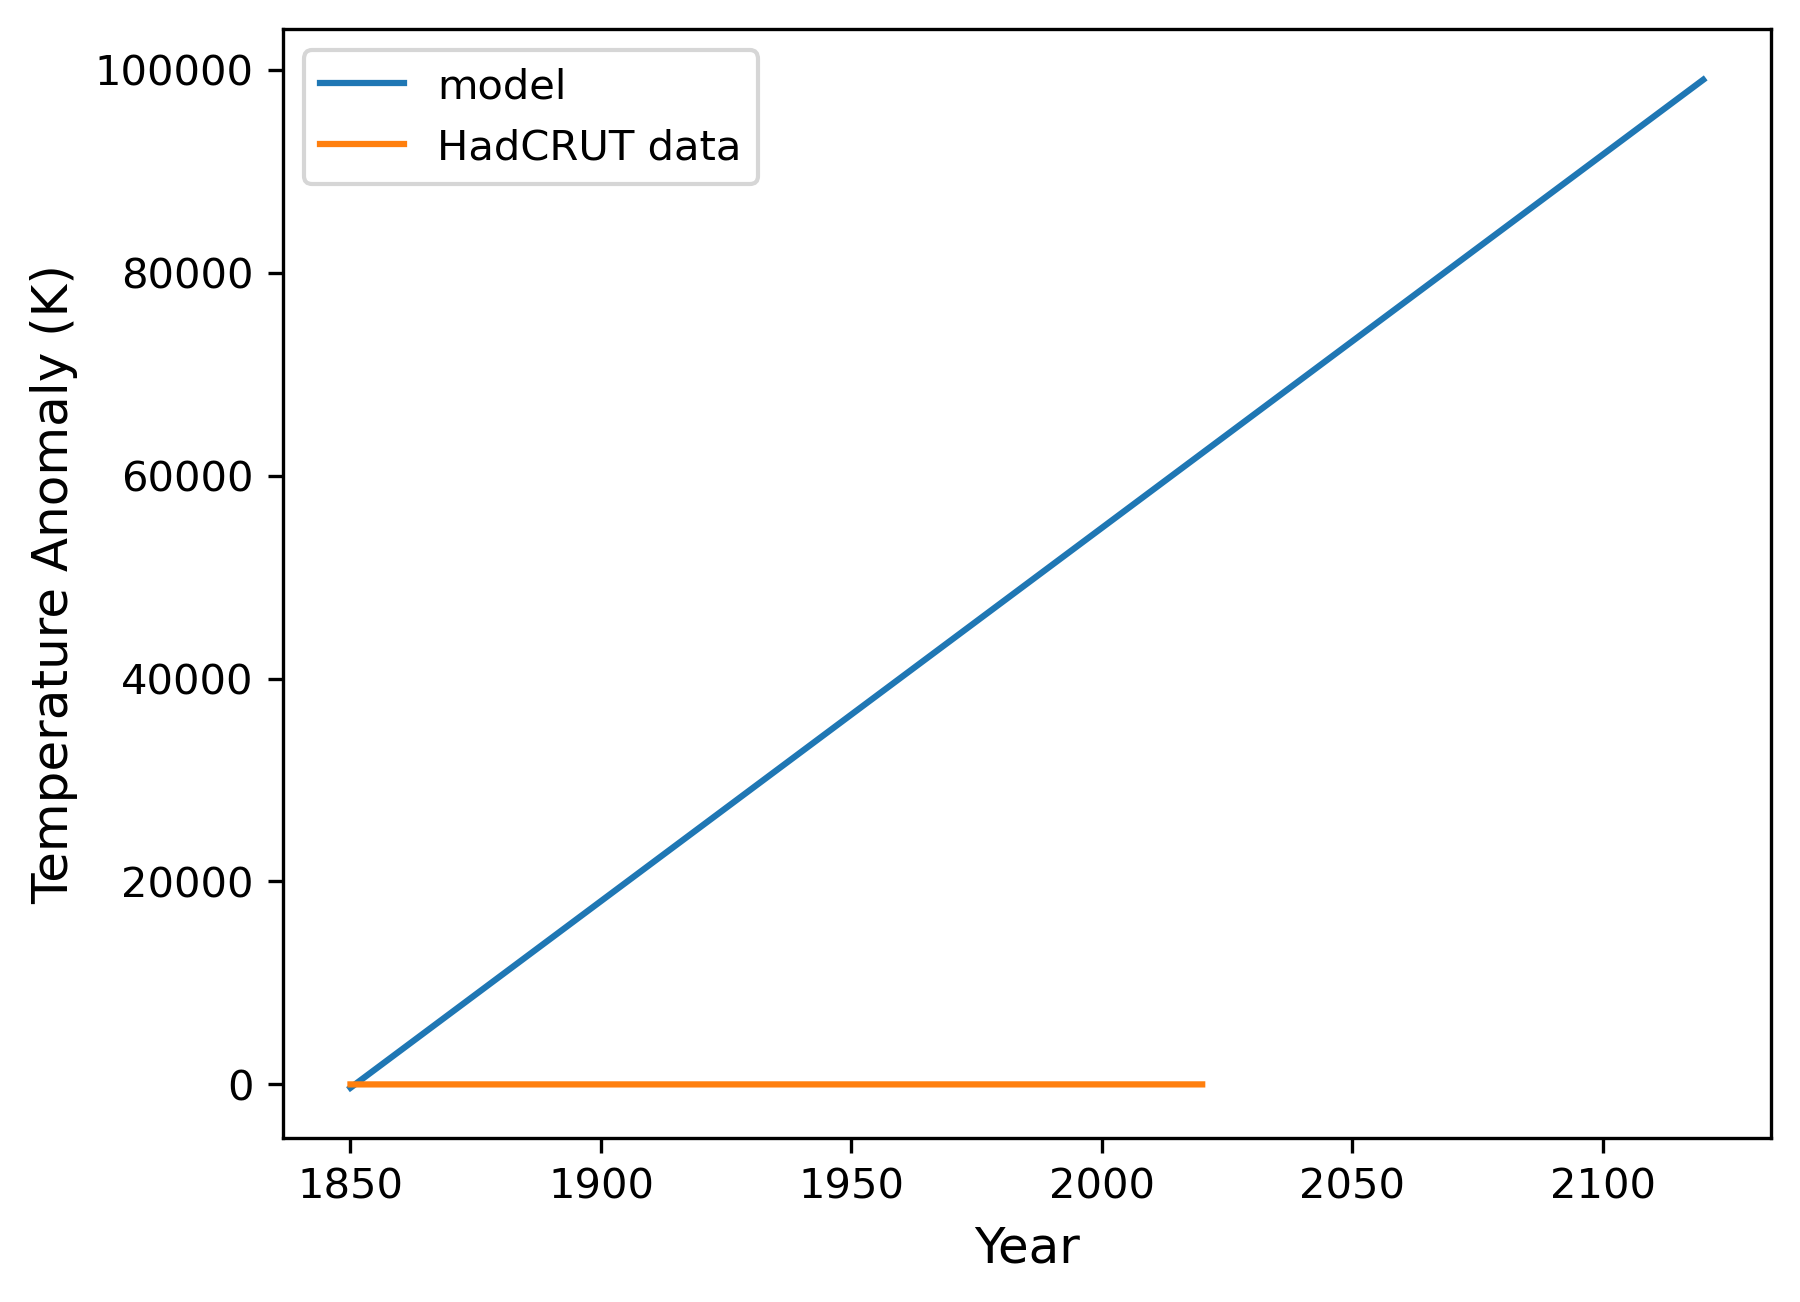
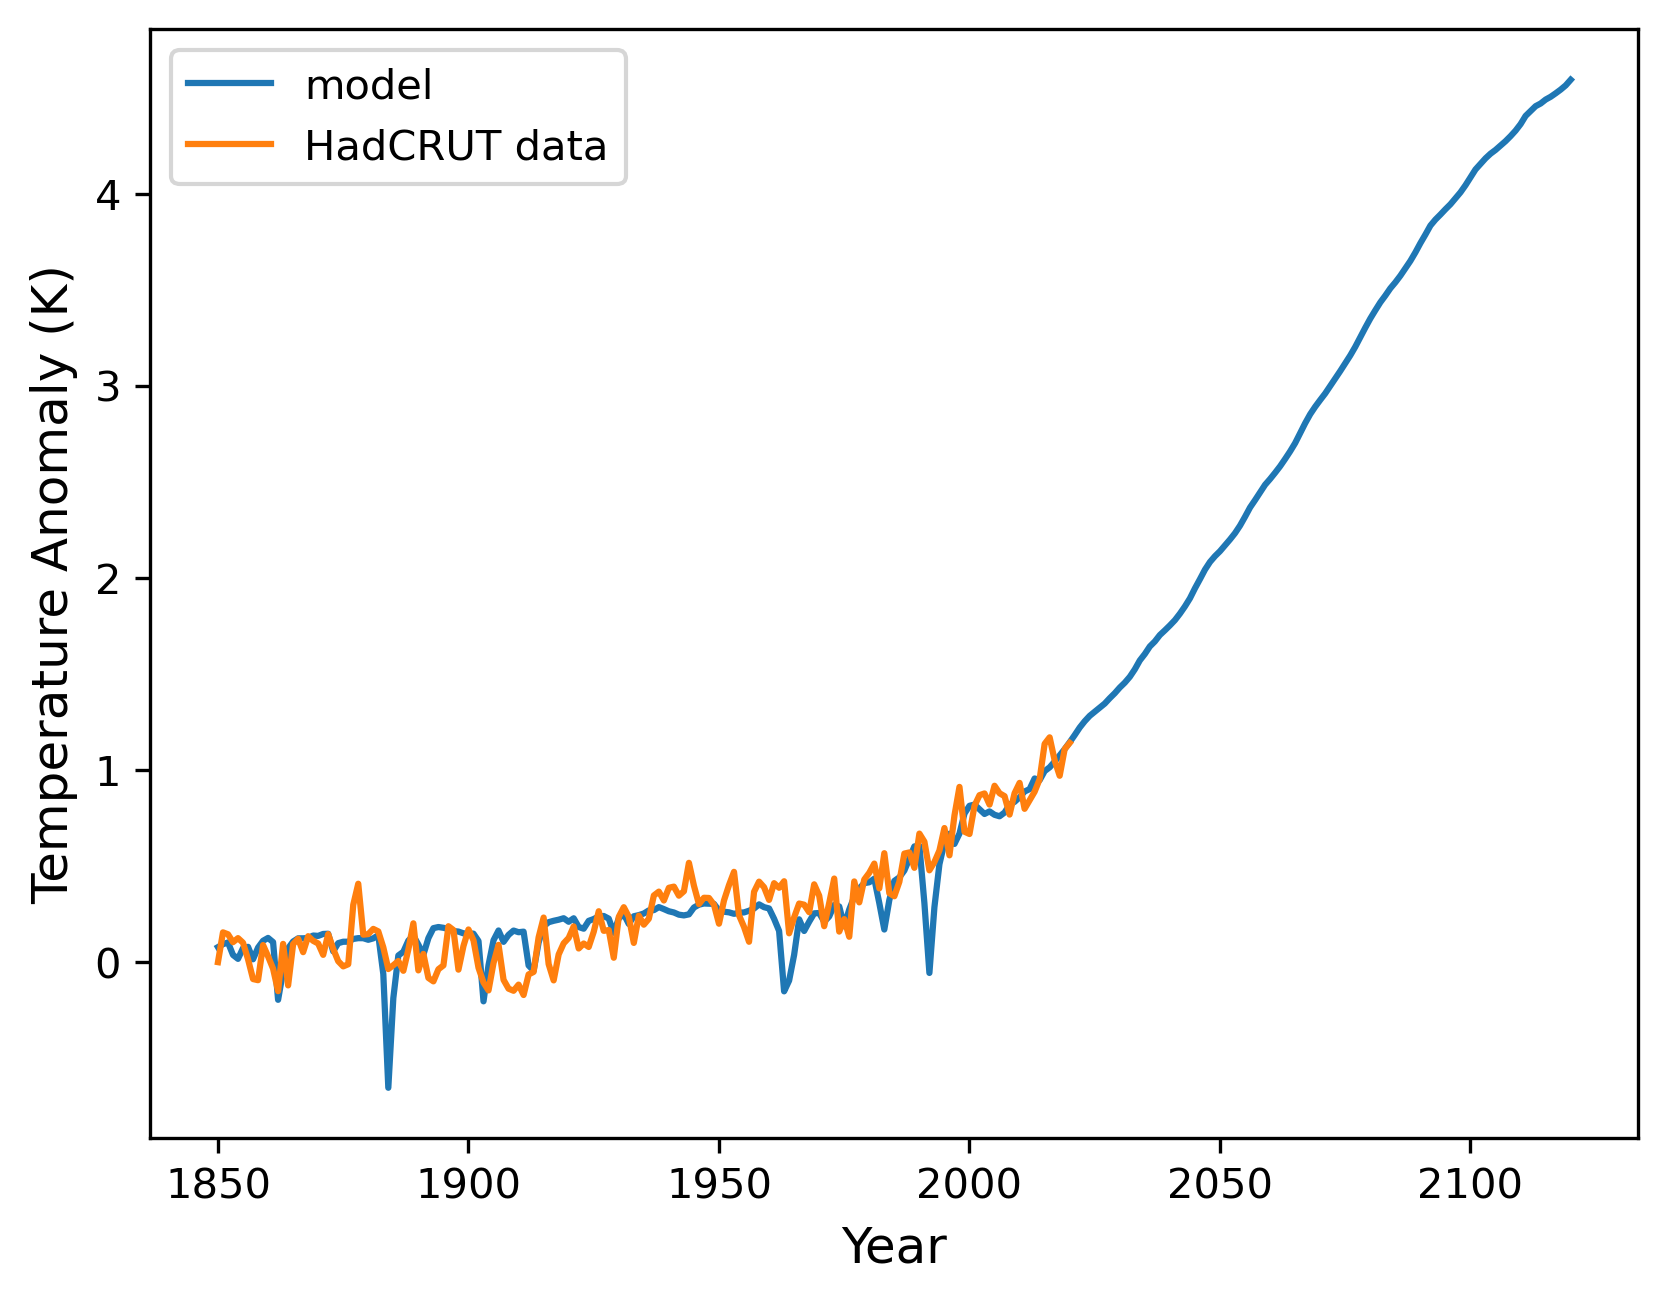
add erf

diff --git a/scripts/experiments.py b/scripts/experiments.py
@@ -28,7 +28,7 @@ def fit_model(data, model_used, t):
     # in order to find parameters for function that give the best fit using least squares approach
     
     mod = lmfit.Model(model_used)
-    params = mod.make_params(A=-1, B=-1, F=2, alpha=1) ## parameters needed for best guess
+    params = mod.make_params(A=-1, B=-1, alpha=1) ## parameters needed for best guess
     fitted_model = mod.fit(data, params, t=t, method='least_squares')
 
     return fitted_model, params 
@@ -55,34 +55,36 @@ def main():
     t_fut = np.array(range(0,271), dtype='int64')
     years_fut = t_fut + 1850
 
+    ERF_data = pd.read_csv(os.path.join(data_dir, 'ERF_ssp585_1750-2500.csv'))
+    ERF_data = ERF_data.set_index('year')
+    ERF = ERF_data.loc[1850:2020]['total']
+
     data_used = load_data(data_path)
     temp_anom = calc_anomaly(data_used, num_years=171)
     
     fitted_model, params = fit_model(temp_anom, surface_ocean_temp, t=t)
 
     ## SET CONSTRAINTS
-    # need to constrain the parameters as A + B = -F/alpha
-    params['F'].expr = '-alpha*(A+B)'
+    # # need to constrain the parameters as A + B = -F/alpha
+    # params['F'].expr = '-alpha*(A+B)'
     # Radiative forcing must be positive
-    params['F'].min = 0
+    # params['F'].min = 0
     # Alpha is 1.04+-0.36 from CMIP6 (in slides)
     params['alpha'].min = 0.68
     params['alpha'].max = 1.40
-
     # best fit parameters from model
     A = fitted_model.params['A'].value
     B = fitted_model.params['B'].value
-    F = fitted_model.params['F'].value
+    # F = fitted_model.params['F'].value
+    ERF_fut = np.array(ERF_data.loc[1850:2120]['total'] * 1.25)
+    
     alpha = fitted_model.params['alpha'].value
-
-    F = np.arange(0,271)
-    ERF = pd.read_csv(os.path.join(data_dir, 'ERF_ssp585_1750-2500.csv'))
-    projection = surface_ocean_temp(t=t_fut, A=A, B=B, F=F, alpha=alpha)
-
+    projection = surface_ocean_temp(t=t_fut, A=A, B=B, F=ERF_fut, alpha=alpha)
+    print(projection)
     ## plot and save ouputs
     fig, ax = plot_model(years_fut, projection, label='model')
     fig, ax = plot_model(years, temp_anom, label='HadCRUT data', fig=fig, ax=ax)
-    fig.savefig('../outputs/test.png', bbox_inches='tight', dpi=300)
+    fig.savefig('../outputs/test2.png', bbox_inches='tight', dpi=300)
 
 
 if __name__ == '__main__':

diff --git a/scripts/model.py b/scripts/model.py
@@ -1,5 +1,11 @@
 import numpy as np
+import pandas as pd
+import os
 # set constants
+data_dir = '../data'
+ERF_data = pd.read_csv(os.path.join(data_dir, 'ERF_ssp585_1750-2500.csv'))
+ERF_data = ERF_data.set_index('year')
+ERF = ERF_data.loc[1850:2020]['total']
 
 rho = 1000 # density of water kgm-3
 c_p = 4218 # specific heat of water Jkg-1K-1
@@ -19,9 +25,15 @@ C_d = rho*c_p*h_d # specific heat of deep ocean Jm-2K-1
 # where lambda1,2 are found using quadratic formula from homogenous 2nd order ODE solution, and
 # A and B are constants, where A + B = -F/alpha (from inhomogenous solution)
 
-def surface_ocean_temp(t, A, B, F, alpha):
+def surface_ocean_temp(t, A, B, alpha, F=None):
     # function for upper ocean temperature, T_u, with variable inputs for constants A, B, F and alpha
-    
+    try:
+        if not F:
+            F = ERF
+    except:
+        pass
+
+
     # terms for quadratic equation to solve second order ODE solution for T_u
     a = C_u/gamma
     b = (alpha+gamma)/gamma + C_u/C_d
